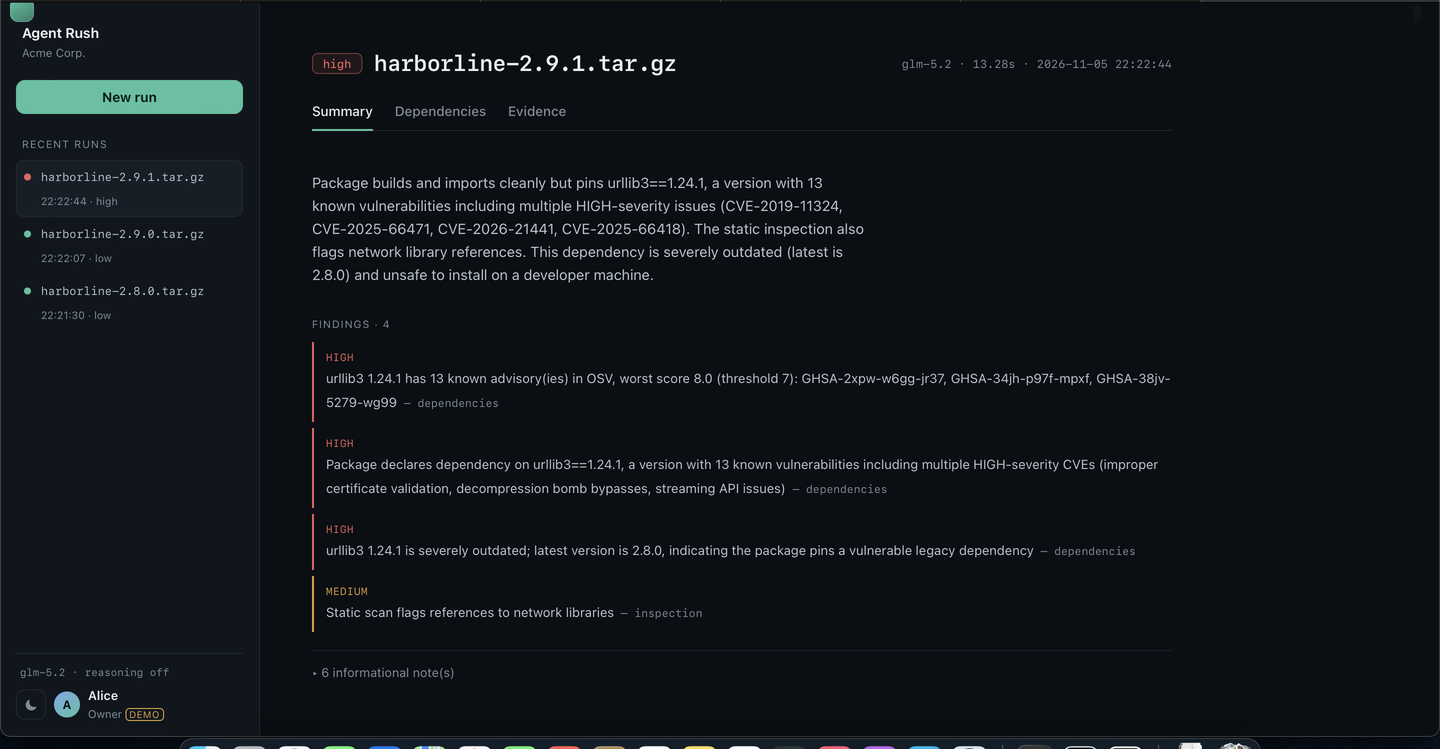
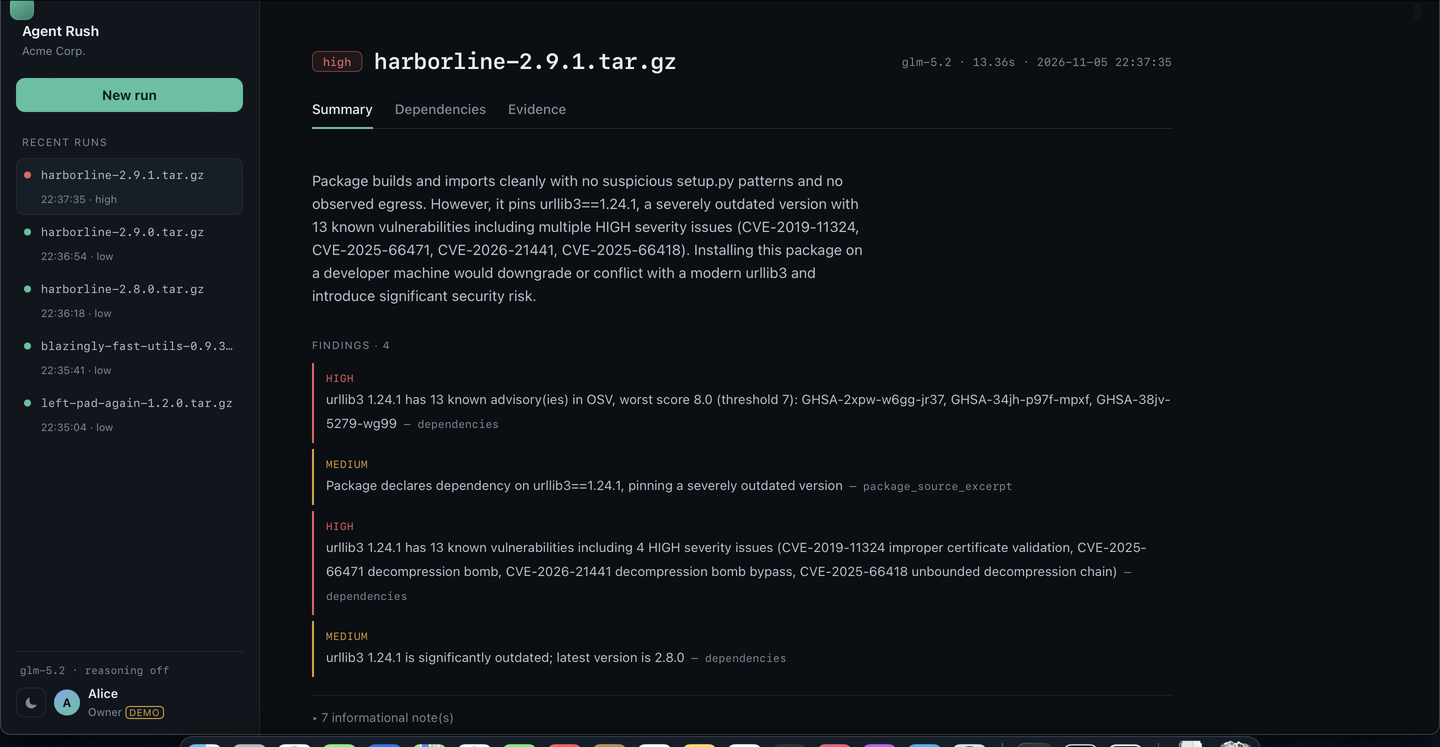
demo: a believable history, and run links back
Seed data now looks like a team's actual week: left-pad-again 1.2.0 (clean),
blazingly-fast-utils 0.9.3 (one dependency a minor behind), then harborline 2.8.0 / 2.9.0 /
2.9.1 where the last release pulls in a vulnerable dependency. Five runs, three packages,
one block. All names are free on PyPI and npm.

Fixture builder now takes a summary and derives the module name, so the joke packages get
their own module instead of all being called harborline.

Also restored ?run=<id>: the URL stays in sync with the selected run, which makes a run
linkable and reload-safe -- it was lost in the rewrite.

diff --git a/web/app.js b/web/app.js
@@ -259,6 +259,10 @@ function renderEvidence(run) {
 
 async function selectRun(id) {
   currentId = id;
+  // Keep the URL in sync so a run stays linkable and reload-safe.
+  const url = new URL(location.href);
+  url.searchParams.set('run', id);
+  history.replaceState(null, '', url);
   clearInterval(pollTimer);
   try {
     const run = await getJSON(`runs/${id}`);
@@ -348,6 +352,8 @@ getJSON('health').then((h) => {
 }).catch(() => { $('model-chip').textContent = 'offline'; });
 
 loadRuns().then(() => {
+  const wanted = new URLSearchParams(location.search).get('run');
+  if (wanted) { selectRun(wanted); return; }
   const first = document.querySelector('#run-list li:not(.empty)');
   if (first) first.click();
 });

diff --git a/web/index.html b/web/index.html
@@ -82,6 +82,6 @@
   </form>
 </dialog>
 
-<script src="app.js?v=22"></script>
+<script src="app.js?v=25"></script>
 </body>
 </html>

diff --git a/README.md b/README.md
@@ -39,8 +39,9 @@ so it is tracked explicitly rather than asserted.
 
 *The live instance. One run as a document: risk, the model that judged it, the findings that
 matter (informational notes folded away), and a dependency tab with a gauge against the block
-threshold plus one row per artifact — version, hash, advisory count, state. The account chip
-is demo data and says so.*
+threshold plus one row per artifact — version, hash, advisory count, state. The rail on the
+left is real history: five runs across three packages. The account chip is demo data and says
+so.*
 
 ## Verified runs
 
